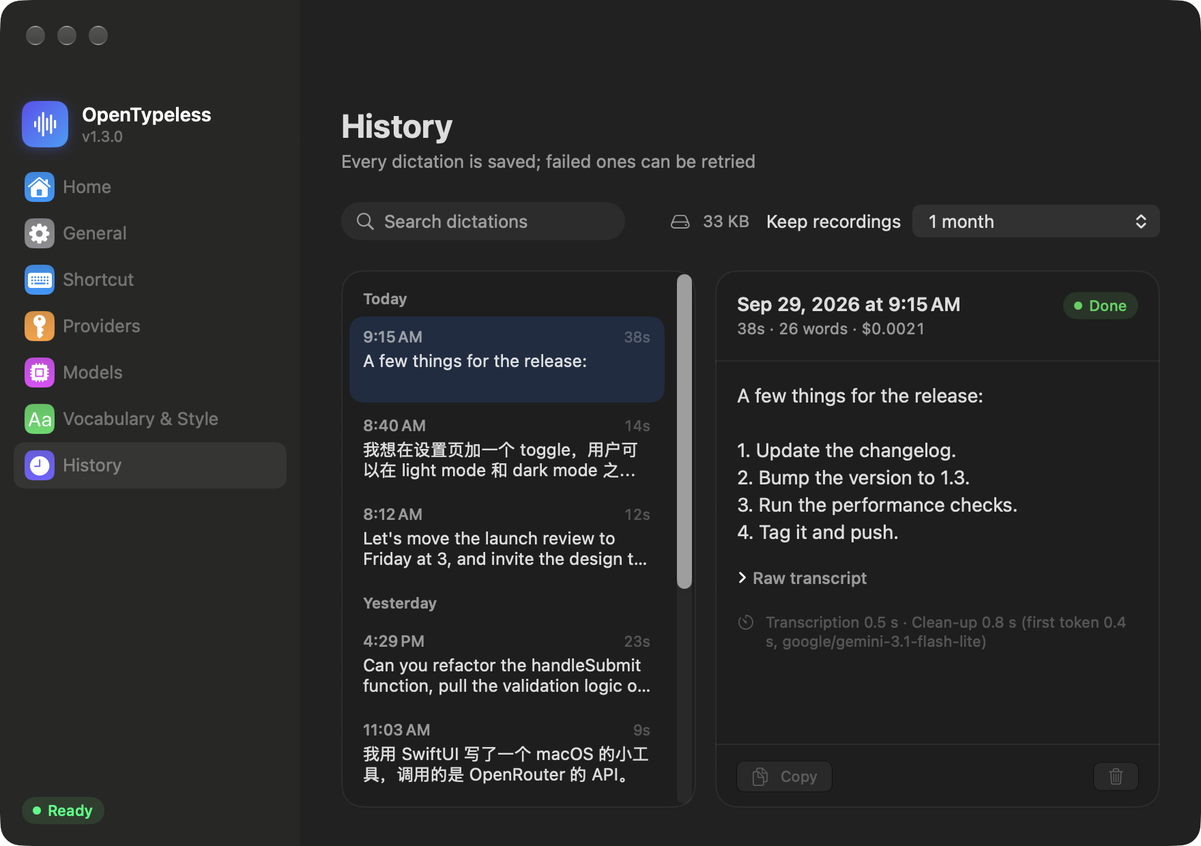
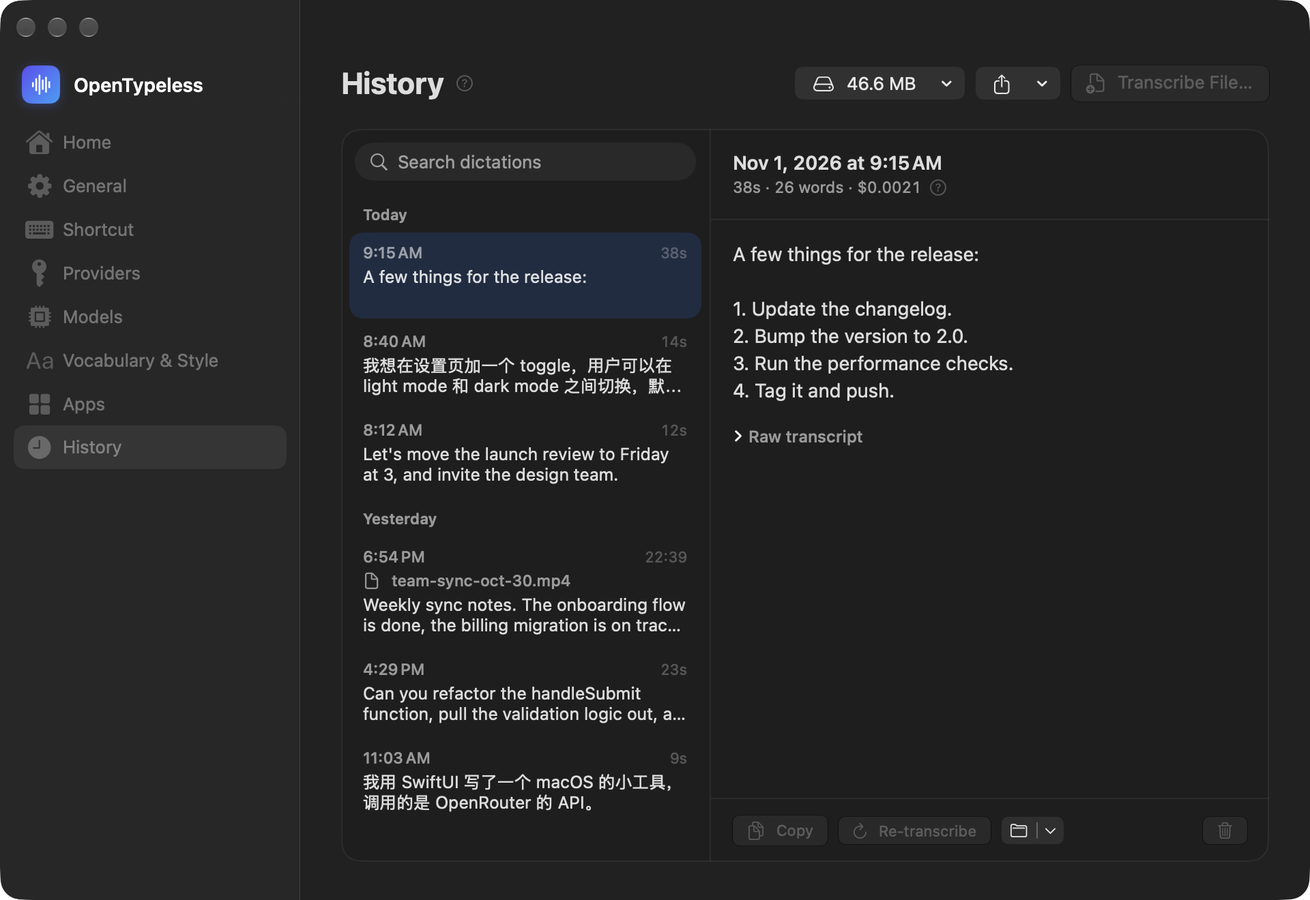
README: screenshots of the new UI
Home, History, Models, Vocabulary and the menu-bar panel, rendered from
sample data with --live --demo --dark --lang en. The recording capsule hasn't
changed. Alt text follows what the pictures show, in all nine READMEs, and
Native design mentions the "?".

diff --git a/README.ru.md b/README.ru.md
@@ -18,7 +18,7 @@
 </p>
 
 <p align="center">
-  <img src="docs/images/menu-bar.png" width="330" alt="Панель в строке меню: подсказка по сочетанию клавиш и недавние диктовки">
+  <img src="docs/images/menu-bar.png" width="330" alt="Панель в строке меню: недавние диктовки, копирование в один клик">
 </p>
 
 <p align="center">
@@ -65,7 +65,7 @@ OpenTypeless построен вокруг этой проблемы.
 - **Ваши слова, ваши языки.** Правки минимальны: формулировки, порядок и тон остаются вашими. Если вы смешиваете китайский и английский, каждое слово остаётся на том языке, на котором вы его произнесли, даже бытовые («shortcut», «dark mode»), а между текстом CJK и латиницей ставится пробел.
 
 <p align="center">
-  <img src="docs/images/history.png" width="720" alt="История: диктовки сгруппированы по дням и доступны для поиска, с очищенным текстом, временем и стоимостью">
+  <img src="docs/images/history.png" width="720" alt="История: диктовки сгруппированы по дням и доступны для поиска, с очищенным текстом и стоимостью">
 </p>
 
 Промпт настроен на обучающем и отложенном тестовом наборах (см. [eval/](eval/)), включая реальные диктовки.
@@ -96,7 +96,7 @@ OpenTypeless построен вокруг этой проблемы.
 - **История** всех диктовок, сгруппированная по дням и с поиском, с исходным и очищенным текстом, временем, стоимостью, копированием и повторным распознаванием. Выберите, сколько хранить записи: не хранить, день, неделю, месяц, год или всегда. То, что показывает список, можно экспортировать в CSV (открывается в Excel, в том числе с китайским текстом), JSON или Markdown, а любую запись — сохранить в WAV-файл.
 - **Распознавание аудио- и видеофайлов.** Кнопка **Распознать файл…** в истории или перетаскивание файлов туда превращает голосовую заметку, запись встречи или видео в текст с помощью вашего провайдера распознавания речи: запись делится по паузам, как длинная диктовка, и при желании очищается. Перед началом видна длительность каждого файла и, если у модели есть поминутная цена, ожидаемая стоимость. Текст сохраняется в истории (никуда не вставляется), файлы не входят в статистику диктовок и никогда не мешают диктовке: файл отправляет меньше запросов одновременно и ждёт, пока вы диктуете.
 - **Девять языков интерфейса**: English, 简体中文, 日本語, 한국어, Español, Português, Français, Deutsch и Русский. Приложение следует языку системы, либо выберите язык в **Настройки → Общие → Язык**.
-- **Нативный дизайн.** Liquid Glass в macOS 26+ с панелью в строке меню; Mica и Acrylic в Windows 11 с панелью в трее. Обе версии показывают маленькую капсулу записи, пока вы говорите.
+- **Нативный дизайн.** Liquid Glass в macOS 26+ с панелью в строке меню; Mica и Acrylic в Windows 11 с панелью в трее. Обе версии показывают маленькую капсулу записи, пока вы говорите. Настройки остаются краткими, а подробности скрыты за **?**: наведите на него или нажмите.
 - **Запуск при входе в систему.**
 - **Обновляется сам.** Раз в день проверяет GitHub Releases, скачивает новую версию в фоне и устанавливает её, когда вы нажмёте **Перезапустить и обновить**, — никогда посреди диктовки. Перед заменой файлов загрузка сверяется с SHA-256 от GitHub. Отключить или проверить вручную можно в **Настройки → Общие → Обновления**.
 - **Компактный и нативный.** Приложение на Swift/SwiftUI размером около 3 МБ на macOS и автономное приложение на WinUI 3 в Windows. Без Electron, без учётной записи и без собственного сервера.
@@ -280,7 +280,7 @@ scripts/perf.sh                  # бюджеты производительно
 
 # Отрисовать страницы настроек, панель строки меню и HUD в PNG (--live показывает их на экране с настоящим Liquid Glass).
 # Скриншоты README сделаны на примере истории и с --demo, который считает разрешения выданными.
-OPENTYPELESS_SUPPORT_DIR=/path/to/sample-data .build/debug/OpenTypeless --snapshot-ui /tmp/shots --live --demo --lang en
+OPENTYPELESS_SUPPORT_DIR=/path/to/sample-data .build/debug/OpenTypeless --snapshot-ui /tmp/shots --live --demo --dark --lang en
 ```
 
 ### Windows

diff --git a/README.ja.md b/README.ja.md
@@ -18,7 +18,7 @@
 </p>
 
 <p align="center">
-  <img src="docs/images/menu-bar.png" width="330" alt="メニューバーのパネル：ショートカットのヒントと最近の音声入力">
+  <img src="docs/images/menu-bar.png" width="330" alt="メニューバーのパネル：最近の音声入力、クリックでコピー">
 </p>
 
 <p align="center">
@@ -65,7 +65,7 @@ OpenTypeless はこの問題を中心に作られています。
 - **あなたの言葉、あなたの言語。** 編集は最小限で、言い回し、順序、口調はそのまま残ります。中国語と英語を混ぜて話した場合、日常語も含めて（「shortcut」「dark mode」）すべての単語が話したときの言語のまま残り、CJK と欧文の間にはスペースが入ります。
 
 <p align="center">
-  <img src="docs/images/history.png" width="720" alt="履歴：日ごとにまとめられ検索でき、整形後のテキスト、所要時間、費用を表示">
+  <img src="docs/images/history.png" width="720" alt="履歴：日ごとにまとめられ検索でき、整形後のテキストと費用を表示">
 </p>
 
 プロンプトは開発用とホールドアウトのテストセット（[eval/](eval/) を参照）で調整されており、実際の口述も含まれています。
@@ -96,7 +96,7 @@ OpenTypeless はこの問題を中心に作られています。
 - **履歴**にはすべての音声入力が日ごとにまとめて残り、検索でき、元のテキストと整形後のテキスト、所要時間、費用とともに、コピーや再度の文字起こしができます。録音の保存期間は、保存しない、1 日、1 週間、1 か月、1 年、無期限から選べます。一覧に表示中の記録は CSV（Excel でそのまま開け、日本語も文字化けしません）、JSON、Markdown に書き出せ、録音は WAV ファイルとして保存できます。
 - **音声・動画ファイルの文字起こし。** 履歴の **ファイルを文字起こし…** を押すか、ファイルをドロップすると、ボイスメモや会議の録音、動画を、選んだ音声認識プロバイダでテキストにします。長い音声入力と同じく間で区切り、整形もできます。開始前に各ファイルの長さと、モデルに分単位の料金があれば費用の見込みを表示します。テキストは履歴に残り（ペーストはされません）、音声入力の集計には含まれません。音声入力の邪魔もしません。ファイルは同時に送るリクエストを減らし、音声入力中は待機します。
 - **9 つの UI 言語**：English、简体中文、日本語、한국어、Español、Português、Français、Deutsch、Русский。システムの言語に従うほか、**設定 → 一般 → 言語** で選べます。
-- **ネイティブなデザイン。** macOS 26 以降では Liquid Glass とメニューバーのパネル、Windows 11 では Mica と Acrylic とトレイのパネル。どちらも話している間は小さな録音カプセルを表示します。
+- **ネイティブなデザイン。** macOS 26 以降では Liquid Glass とメニューバーのパネル、Windows 11 では Mica と Acrylic とトレイのパネル。どちらも話している間は小さな録音カプセルを表示します。設定の説明は短く、詳しい内容は **?** にポインタを合わせるかクリックすると読めます。
 - **ログイン時に起動。**
 - **自動アップデート。** 1 日 1 回 GitHub Releases を確認し、新しいバージョンをバックグラウンドでダウンロードして、**再起動して更新** をクリックしたときにインストールします。音声入力の途中で行うことはありません。ファイルを置き換える前に、ダウンロードを GitHub の SHA-256 と照合します。**設定 → 一般 → アップデート** でオフにしたり、手動で確認したりできます。
 - **小さくてネイティブ。** macOS では約 3 MB の Swift/SwiftUI アプリ、Windows では自己完結型の WinUI 3 アプリ。Electron もアカウントも独自サーバーもありません。
@@ -280,7 +280,7 @@ scripts/perf.sh                  # リリースビルドでのパフォーマン
 
 # 設定ページ、メニューバーのパネル、HUD を PNG に書き出す（--live は画面に表示して本物の Liquid Glass で撮影）。
 # README のスクリーンショットはサンプルの履歴と、許可済みとして扱う --demo を使っています。
-OPENTYPELESS_SUPPORT_DIR=/path/to/sample-data .build/debug/OpenTypeless --snapshot-ui /tmp/shots --live --demo --lang en
+OPENTYPELESS_SUPPORT_DIR=/path/to/sample-data .build/debug/OpenTypeless --snapshot-ui /tmp/shots --live --demo --dark --lang en
 ```
 
 ### Windows

diff --git a/README.fr.md b/README.fr.md
@@ -18,7 +18,7 @@
 </p>
 
 <p align="center">
-  <img src="docs/images/menu-bar.png" width="330" alt="Le panneau de la barre des menus : rappel du raccourci et dictées récentes">
+  <img src="docs/images/menu-bar.png" width="330" alt="Le panneau de la barre des menus : dictées récentes, à un clic de la copie">
 </p>
 
 <p align="center">
@@ -65,7 +65,7 @@ La transcription brute est brouillonne : tics de langage, reprises, « non atten
 - **Vos mots, vos langues.** Les modifications sont minimales : formulation, ordre et ton restent les vôtres. Quand vous mélangez chinois et anglais, chaque mot reste dans la langue où vous l’avez dit, y compris les mots courants (« shortcut », « dark mode »), avec une espace entre texte CJK et texte latin.
 
 <p align="center">
-  <img src="docs/images/history.png" width="720" alt="Historique : les dictées regroupées par jour et consultables par recherche, avec le texte nettoyé, les durées et le coût">
+  <img src="docs/images/history.png" width="720" alt="Historique : les dictées regroupées par jour et consultables par recherche, avec le texte nettoyé et son coût">
 </p>
 
 Le prompt est ajusté sur des jeux de développement et de test réservés (voir [eval/](eval/)), qui incluent de vraies dictées.
@@ -96,7 +96,7 @@ Le prompt est ajusté sur des jeux de développement et de test réservés (voir
 - **Historique** de chaque dictée, regroupé par jour et consultable par recherche, avec le texte brut et nettoyé, les durées, le coût, la copie et la retranscription. Choisissez combien de temps les enregistrements sont conservés : pas du tout, un jour, une semaine, un mois, un an ou pour toujours. Exportez ce qu’affiche la liste en CSV (s’ouvre dans Excel, caractères chinois compris), JSON ou Markdown, et sauvegardez l’audio de n’importe quelle dictée en fichier WAV.
 - **Transcription de fichiers audio et vidéo.** **Transcrire un fichier…** dans l’historique, ou y déposer des fichiers, transforme un mémo vocal, l’enregistrement d’une réunion ou une vidéo en texte avec votre fournisseur de transcription, découpé aux pauses comme une longue dictée et nettoyé si vous le souhaitez. Avant de commencer, vous voyez la durée de chaque fichier et, quand le modèle a un prix à la minute, ce que cela devrait coûter. Le texte est conservé dans l’historique (jamais collé), les fichiers ne comptent pas dans les statistiques de dictée et ne retardent jamais une dictée : un fichier envoie moins de requêtes à la fois et attend pendant que vous dictez.
 - **Neuf langues d’interface** : English, 简体中文, 日本語, 한국어, Español, Português, Français, Deutsch et Русский. L’app suit la langue du système, ou choisissez-en une dans **Réglages → Général → Langue**.
-- **Design natif.** Liquid Glass sur macOS 26+ avec un panneau dans la barre des menus ; Mica et Acrylic sur Windows 11 avec un panneau dans la zone de notification. Les deux affichent une petite capsule d’enregistrement pendant que vous parlez.
+- **Design natif.** Liquid Glass sur macOS 26+ avec un panneau dans la barre des menus ; Mica et Acrylic sur Windows 11 avec un panneau dans la zone de notification. Les deux affichent une petite capsule d’enregistrement pendant que vous parlez. Les réglages restent courts, avec les détails derrière un **?** à survoler ou à cliquer.
 - **Ouverture à la connexion.**
 - **Se met à jour toute seule.** Vérifie GitHub Releases une fois par jour, télécharge la nouvelle version en arrière-plan et l’installe quand vous cliquez sur **Redémarrer pour mettre à jour**, jamais au milieu d’une dictée. Les téléchargements sont vérifiés avec le SHA-256 de GitHub avant tout remplacement. Désactivez-la, ou vérifiez manuellement, dans **Réglages → Général → Mises à jour**.
 - **Légère et native.** Une app Swift/SwiftUI d’environ 3 Mo sur macOS et une app WinUI 3 autonome sur Windows. Pas d’Electron, pas de compte et pas de serveur à elle.
@@ -280,7 +280,7 @@ Modes en ligne de commande utiles du binaire compilé (depuis `macos/`) :
 
 # Rend les pages de réglages, le panneau de la barre des menus et le HUD en PNG (--live les affiche à l’écran, avec un vrai Liquid Glass).
 # Les captures du README utilisent un historique d’exemple et --demo, qui considère les autorisations comme accordées.
-OPENTYPELESS_SUPPORT_DIR=/path/to/sample-data .build/debug/OpenTypeless --snapshot-ui /tmp/shots --live --demo --lang en
+OPENTYPELESS_SUPPORT_DIR=/path/to/sample-data .build/debug/OpenTypeless --snapshot-ui /tmp/shots --live --demo --dark --lang en
 ```
 
 ### Windows

diff --git a/README.de.md b/README.de.md
@@ -18,7 +18,7 @@
 </p>
 
 <p align="center">
-  <img src="docs/images/menu-bar.png" width="330" alt="Das Menüleisten-Panel: Hinweis zum Tastenkürzel und letzte Diktate">
+  <img src="docs/images/menu-bar.png" width="330" alt="Das Menüleisten-Panel: letzte Diktate, per Klick kopiert">
 </p>
 
 <p align="center">
@@ -65,7 +65,7 @@ Rohe Spracherkennung ist unordentlich: Füllwörter, Neuanfänge, „nein, warte
 - **Deine Worte, deine Sprachen.** Änderungen bleiben minimal: Wortwahl, Reihenfolge und Ton bleiben deine. Wenn du Chinesisch und Englisch mischst, bleibt jedes Wort in der Sprache, in der du es gesagt hast, auch Alltagswörter („shortcut“, „dark mode“), mit Leerzeichen zwischen CJK- und lateinischem Text.
 
 <p align="center">
-  <img src="docs/images/history.png" width="720" alt="Verlauf: Diktate nach Tagen gruppiert und durchsuchbar, mit bereinigtem Text, Zeiten und Kosten">
+  <img src="docs/images/history.png" width="720" alt="Verlauf: Diktate nach Tagen gruppiert und durchsuchbar, mit bereinigtem Text und Kosten">
 </p>
 
 Der Prompt ist auf Entwicklungs- und zurückgehaltenen Testsets abgestimmt (siehe [eval/](eval/)), darunter echte Diktate.
@@ -96,7 +96,7 @@ Der Prompt ist auf Entwicklungs- und zurückgehaltenen Testsets abgestimmt (sieh
 - **Verlauf** jedes Diktats, nach Tagen gruppiert und durchsuchbar, mit Roh- und bereinigtem Text, Zeiten, Kosten, Kopieren und Neu-Transkribieren. Du bestimmst, wie lange Aufnahmen behalten werden: gar nicht, einen Tag, eine Woche, einen Monat, ein Jahr oder für immer. Exportiere, was die Liste zeigt, als CSV (öffnet sich in Excel, auch mit chinesischen Zeichen), JSON oder Markdown, und sichere jede Aufnahme als WAV-Datei.
 - **Audio- und Videodateien transkribieren.** **Datei transkribieren…** im Verlauf, oder Dateien dort ablegen, macht aus einem Sprachmemo, einer Besprechungsaufnahme oder einem Video Text, mit deinem Spracherkennungsanbieter, an Pausen geteilt wie ein langes Diktat und auf Wunsch bereinigt. Vor dem Start siehst du die Länge jeder Datei und, wenn das Modell einen Minutenpreis hat, was es kosten sollte. Der Text bleibt im Verlauf (er wird nie eingefügt), Dateien zählen nicht zur Diktat-Statistik und halten nie ein Diktat auf: Eine Datei schickt weniger Anfragen gleichzeitig und wartet, während du diktierst.
 - **Neun UI-Sprachen**: English, 简体中文, 日本語, 한국어, Español, Português, Français, Deutsch und Русский. Die App folgt der Systemsprache, oder du wählst eine unter **Einstellungen → Allgemein → Sprache**.
-- **Natives Design.** Liquid Glass ab macOS 26 mit einem Menüleisten-Panel; Mica und Acrylic unter Windows 11 mit einem Panel im Infobereich. Beide zeigen beim Sprechen eine kleine Aufnahme-Kapsel.
+- **Natives Design.** Liquid Glass ab macOS 26 mit einem Menüleisten-Panel; Mica und Acrylic unter Windows 11 mit einem Panel im Infobereich. Beide zeigen beim Sprechen eine kleine Aufnahme-Kapsel. Die Einstellungen bleiben kurz, Details stehen hinter einem **?**, auf das du zeigen oder klicken kannst.
 - **Start bei der Anmeldung.**
 - **Aktualisiert sich selbst.** Prüft einmal täglich GitHub Releases, lädt eine neue Version im Hintergrund und installiert sie, wenn du auf **Neu starten und aktualisieren** klickst, nie mitten in einem Diktat. Downloads werden vor jedem Austausch gegen GitHubs SHA-256 geprüft. Abschalten oder manuell prüfen kannst du unter **Einstellungen → Allgemein → Updates**.
 - **Klein und nativ.** Eine ca. 3 MB große Swift/SwiftUI-App auf macOS und eine eigenständige WinUI-3-App auf Windows. Kein Electron, kein Konto und kein eigener Server.
@@ -280,7 +280,7 @@ Nützliche Kommandozeilenmodi des gebauten Programms (aus `macos/`):
 
 # Einstellungsseiten, Menüleisten-Panel und HUD als PNG rendern (--live zeigt sie auf dem Bildschirm, mit echtem Liquid Glass).
 # Die README-Screenshots nutzen einen Beispielverlauf und --demo, das Berechtigungen als erteilt behandelt.
-OPENTYPELESS_SUPPORT_DIR=/path/to/sample-data .build/debug/OpenTypeless --snapshot-ui /tmp/shots --live --demo --lang en
+OPENTYPELESS_SUPPORT_DIR=/path/to/sample-data .build/debug/OpenTypeless --snapshot-ui /tmp/shots --live --demo --dark --lang en
 ```
 
 ### Windows

diff --git a/README.es.md b/README.es.md
@@ -18,7 +18,7 @@
 </p>
 
 <p align="center">
-  <img src="docs/images/menu-bar.png" width="330" alt="El panel de la barra de menús: aviso del atajo y dictados recientes">
+  <img src="docs/images/menu-bar.png" width="330" alt="El panel de la barra de menús: dictados recientes, a un clic de copiar">
 </p>
 
 <p align="center">
@@ -65,7 +65,7 @@ La transcripción en bruto es desordenada: muletillas, frases que se reinician, 
 - **Tus palabras, tus idiomas.** Los cambios son mínimos: la redacción, el orden y el tono siguen siendo tuyos. Si mezclas chino e inglés, cada palabra se queda en el idioma en que la dijiste, también las cotidianas («shortcut», «dark mode»), con espacio entre el texto CJK y el latino.
 
 <p align="center">
-  <img src="docs/images/history.png" width="720" alt="Historial: dictados agrupados por día y con búsqueda, con el texto limpio, los tiempos y el coste">
+  <img src="docs/images/history.png" width="720" alt="Historial: dictados agrupados por día y con búsqueda, con el texto limpio y su coste">
 </p>
 
 El prompt está ajustado con conjuntos de desarrollo y de prueba reservados (ver [eval/](eval/)), que incluyen dictados reales.
@@ -96,7 +96,7 @@ El prompt está ajustado con conjuntos de desarrollo y de prueba reservados (ver
 - **Historial** de cada dictado, agrupado por día y con búsqueda, con el texto original y el limpio, tiempos, coste, copiar y volver a transcribir. Elige cuánto tiempo se guardan las grabaciones: nada, un día, una semana, un mes, un año o para siempre. Exporta lo que muestra la lista a CSV (se abre en Excel, también con caracteres chinos), JSON o Markdown, y guarda cualquier grabación como archivo WAV.
 - **Transcribe archivos de audio y vídeo.** **Transcribir archivo…** en el historial, o soltar archivos en él, convierte una nota de voz, la grabación de una reunión o un vídeo en texto con tu proveedor de voz a texto, cortado en las pausas como un dictado largo y, si quieres, limpio. Antes de empezar ves la duración de cada archivo y, si el modelo tiene precio por minuto, lo que debería costar. El texto se guarda en el historial (nunca se pega), los archivos no cuentan en las estadísticas de dictado y nunca retrasan un dictado: un archivo envía menos solicitudes a la vez y espera mientras dictas.
 - **Nueve idiomas de interfaz**: English, 简体中文, 日本語, 한국어, Español, Português, Français, Deutsch y Русский. La app sigue el idioma del sistema, o elige uno en **Ajustes → General → Idioma**.
-- **Diseño nativo.** Liquid Glass en macOS 26+ con un panel en la barra de menús; Mica y Acrylic en Windows 11 con un panel en la bandeja. Ambas muestran una pequeña cápsula de grabación mientras hablas.
+- **Diseño nativo.** Liquid Glass en macOS 26+ con un panel en la barra de menús; Mica y Acrylic en Windows 11 con un panel en la bandeja. Ambas muestran una pequeña cápsula de grabación mientras hablas. Los ajustes son breves y los detalles están tras un **?** que puedes señalar o pulsar.
 - **Se abre al iniciar sesión.**
 - **Se actualiza sola.** Busca en GitHub Releases una vez al día, descarga la nueva versión en segundo plano y la instala cuando pulsas **Reiniciar para actualizar**, nunca en mitad de un dictado. Las descargas se comprueban con el SHA-256 de GitHub antes de reemplazar nada. Desactívalo, o búscalas a mano, en **Ajustes → General → Actualizaciones**.
 - **Pequeña y nativa.** Una app Swift/SwiftUI de ~3 MB en macOS y una app WinUI 3 autónoma en Windows. Sin Electron, sin cuenta y sin servidor propio.
@@ -280,7 +280,7 @@ Modos de línea de comandos útiles del binario compilado (desde `macos/`):
 
 # Renderiza las páginas de ajustes, el panel de la barra de menús y el HUD a PNG (--live los muestra en pantalla con Liquid Glass real).
 # Las capturas del README usan un historial de ejemplo y --demo, que da los permisos por concedidos.
-OPENTYPELESS_SUPPORT_DIR=/path/to/sample-data .build/debug/OpenTypeless --snapshot-ui /tmp/shots --live --demo --lang en
+OPENTYPELESS_SUPPORT_DIR=/path/to/sample-data .build/debug/OpenTypeless --snapshot-ui /tmp/shots --live --demo --dark --lang en
 ```
 
 ### Windows

diff --git a/README.pt-BR.md b/README.pt-BR.md
@@ -18,7 +18,7 @@
 </p>
 
 <p align="center">
-  <img src="docs/images/menu-bar.png" width="330" alt="O painel da barra de menus: dica do atalho e ditados recentes">
+  <img src="docs/images/menu-bar.png" width="330" alt="O painel da barra de menus: ditados recentes, a um clique de copiar">
 </p>
 
 <p align="center">
@@ -65,7 +65,7 @@ A transcrição bruta é bagunçada: vícios de linguagem, recomeços, "não, es
 - **Suas palavras, seus idiomas.** As edições são mínimas: palavras, ordem e tom continuam seus. Quando você mistura chinês e inglês, cada palavra fica no idioma em que foi dita, inclusive as do dia a dia ("shortcut", "dark mode"), com espaço entre o texto CJK e o latino.
 
 <p align="center">
-  <img src="docs/images/history.png" width="720" alt="Histórico: ditados agrupados por dia e pesquisáveis, com o texto limpo, os tempos e o custo">
+  <img src="docs/images/history.png" width="720" alt="Histórico: ditados agrupados por dia e pesquisáveis, com o texto limpo e o custo">
 </p>
 
 O prompt é ajustado com conjuntos de desenvolvimento e de teste reservados (veja [eval/](eval/)), incluindo ditados reais.
@@ -96,7 +96,7 @@ O prompt é ajustado com conjuntos de desenvolvimento e de teste reservados (vej
 - **Histórico** de todos os ditados, agrupado por dia e pesquisável, com texto bruto e limpo, tempos, custo, copiar e transcrever de novo. Escolha por quanto tempo as gravações ficam guardadas: nada, um dia, uma semana, um mês, um ano ou para sempre. Exporte o que a lista mostra para CSV (abre no Excel, inclusive com caracteres chineses), JSON ou Markdown, e salve qualquer gravação como arquivo WAV.
 - **Transcreva arquivos de áudio e vídeo.** **Transcrever arquivo…** no histórico, ou soltar arquivos nele, transforma uma nota de voz, a gravação de uma reunião ou um vídeo em texto com seu provedor de voz para texto, cortado nas pausas como um ditado longo e, se quiser, limpo. Antes de começar você vê a duração de cada arquivo e, quando o modelo tem preço por minuto, quanto deve custar. O texto fica no histórico (nunca é colado), os arquivos ficam fora das estatísticas de ditado e nunca atrasam um ditado: um arquivo envia menos requisições ao mesmo tempo e espera enquanto você dita.
 - **Nove idiomas de interface**: English, 简体中文, 日本語, 한국어, Español, Português, Français, Deutsch e Русский. O app segue o idioma do sistema, ou escolha um em **Configurações → Geral → Idioma**.
-- **Design nativo.** Liquid Glass no macOS 26+ com um painel na barra de menus; Mica e Acrylic no Windows 11 com um painel na bandeja. Ambos mostram uma pequena cápsula de gravação enquanto você fala.
+- **Design nativo.** Liquid Glass no macOS 26+ com um painel na barra de menus; Mica e Acrylic no Windows 11 com um painel na bandeja. Ambos mostram uma pequena cápsula de gravação enquanto você fala. As configurações são curtas, com os detalhes em um **?** que você pode apontar ou clicar.
 - **Abre ao iniciar sessão.**
 - **Atualiza sozinho.** Verifica o GitHub Releases uma vez por dia, baixa a nova versão em segundo plano e instala quando você clica em **Reiniciar para atualizar**, nunca no meio de um ditado. Os downloads são conferidos com o SHA-256 do GitHub antes de qualquer substituição. Desative, ou verifique manualmente, em **Configurações → Geral → Atualizações**.
 - **Pequeno e nativo.** Um app Swift/SwiftUI de ~3 MB no macOS e um app WinUI 3 independente no Windows. Sem Electron, sem conta e sem servidor próprio.
@@ -280,7 +280,7 @@ Modos úteis de linha de comando do binário compilado (a partir de `macos/`):
 
 # Renderiza as páginas de configurações, o painel da barra de menus e o HUD em PNG (--live mostra na tela, com Liquid Glass de verdade).
 # As capturas do README usam um histórico de exemplo e --demo, que trata as permissões como concedidas.
-OPENTYPELESS_SUPPORT_DIR=/path/to/sample-data .build/debug/OpenTypeless --snapshot-ui /tmp/shots --live --demo --lang en
+OPENTYPELESS_SUPPORT_DIR=/path/to/sample-data .build/debug/OpenTypeless --snapshot-ui /tmp/shots --live --demo --dark --lang en
 ```
 
 ### Windows

diff --git a/README.md b/README.md
@@ -18,7 +18,7 @@
 </p>
 
 <p align="center">
-  <img src="docs/images/menu-bar.png" width="330" alt="The menu-bar panel: shortcut hint and recent dictations">
+  <img src="docs/images/menu-bar.png" width="330" alt="The menu-bar panel: recent dictations, one click to copy">
 </p>
 
 <p align="center">
@@ -65,7 +65,7 @@ Raw speech-to-text is messy: fillers, restarts, "no wait, I mean…", thinking o
 - **Your words, your languages.** Edits are kept to a minimum: wording, order and tone stay yours. When you mix Chinese and English, every word stays in the language you said it in, everyday words too ("shortcut", "dark mode"), with spacing between CJK and Latin text.
 
 <p align="center">
-  <img src="docs/images/history.png" width="720" alt="History: dictations grouped by day and searchable, with the cleaned-up text, timing and cost">
+  <img src="docs/images/history.png" width="720" alt="History: dictations grouped by day and searchable, with the cleaned-up text and its cost">
 </p>
 
 The prompt is tuned against development and held-out test sets (see [eval/](eval/)), including real dictations.
@@ -98,7 +98,7 @@ The prompt is tuned against development and held-out test sets (see [eval/](eval
 - **History** of every dictation, grouped by day and searchable, with raw and cleaned text, timing, cost, copy and re-transcribe. Choose how long recordings are kept: not at all, a day, a week, a month, a year, or forever. Export what the list shows as CSV (opens in Excel, Chinese included), JSON or Markdown, and save any recording as a WAV file.
 - **Transcribe audio and video files.** **Transcribe File…** in History, or drop files on it, turns a voice memo, a meeting recording or a video into text with your speech-to-text provider, cut at pauses like a long dictation and optionally cleaned up. Before it starts you see each file's length and, when the model has a per-minute price, what it should cost. The text is kept in History (never pasted), files are left out of the dictation totals, and they never hold up dictating: a file sends fewer requests at once and waits while you dictate.
 - **Nine UI languages**: English, 简体中文, 日本語, 한국어, Español, Português, Français, Deutsch and Русский. The app follows the system language, or pick one under **Settings → General → Language**.
-- **Native design.** Liquid Glass on macOS 26+ with a menu-bar panel; Mica and Acrylic on Windows 11 with a tray panel. Both show a small recording capsule while you talk.
+- **Native design.** Liquid Glass on macOS 26+ with a menu-bar panel; Mica and Acrylic on Windows 11 with a tray panel. Both show a small recording capsule while you talk. Settings stay short, with the details behind a **?** you can point at or click.
 - **Launch at login.**
 - **Updates itself.** Checks GitHub Releases once a day, downloads a new version in the background and installs it when you click **Restart to update**, never in the middle of a dictation. Downloads are checked against GitHub's SHA-256 before anything is replaced. Turn it off, or check by hand, under **Settings → General → Updates**.
 - **Small and native.** A ~3 MB Swift/SwiftUI app on macOS and a self-contained WinUI 3 app on Windows. No Electron, no account and no server of its own.
@@ -303,7 +303,7 @@ Useful command-line modes of the built binary (from `macos/`):
 
 # Render the settings pages, menu-bar panel and HUD to PNGs (--live shows them on screen for real Liquid Glass).
 # The README screenshots use sample history and --demo, which treats permissions as granted.
-OPENTYPELESS_SUPPORT_DIR=/path/to/sample-data .build/debug/OpenTypeless --snapshot-ui /tmp/shots --live --demo --lang en
+OPENTYPELESS_SUPPORT_DIR=/path/to/sample-data .build/debug/OpenTypeless --snapshot-ui /tmp/shots --live --demo --dark --lang en
 ```
 
 ### Windows

diff --git a/README.zh-CN.md b/README.zh-CN.md
@@ -18,7 +18,7 @@
 </p>
 
 <p align="center">
-  <img src="docs/images/menu-bar.png" width="330" alt="菜单栏面板：快捷键提示和最近的听写">
+  <img src="docs/images/menu-bar.png" width="330" alt="菜单栏面板：最近的听写，点一下就能复制">
 </p>
 
 <p align="center">
@@ -65,7 +65,7 @@ OpenTypeless 就是围绕这个问题做的。
 - **你的用词、你的语言。** 改动尽量少：措辞、顺序和语气都保持原样。中英混说时，每个词都保留你说出它时的语言，日常词也一样（“shortcut”、“dark mode”），中文和英文之间加空格。
 
 <p align="center">
-  <img src="docs/images/history.png" width="720" alt="历史：按天分组、可以搜索，显示整理后的文字、耗时和花费">
+  <img src="docs/images/history.png" width="720" alt="历史：按天分组、可以搜索，显示整理后的文字和花费">
 </p>
 
 提示词在开发集和留出测试集上调优（见 [eval/](eval/)），其中包括真实的口述。
@@ -98,7 +98,7 @@ OpenTypeless 就是围绕这个问题做的。
 - **历史**记录每一次听写，按天分组、可以搜索，包括原始文字和整理后的文字、耗时、花费、复制和重新转写。录音保存多久由你决定：不保存、一天、一周、一个月、一年或永久。列表里显示的记录可以导出为 CSV（Excel 直接打开，中文不乱码）、JSON 或 Markdown，录音也可以另存为 WAV 文件。
 - **转写音频和视频文件。** 在历史页点 **转写文件…** 或把文件拖进去，就能用你的语音转文字服务商把语音备忘录、会议录音或视频转成文字，像长听写一样在停顿处切段，还可以顺便整理。开始前会显示每个文件的长度，模型有按分钟的价格时还会显示预计花费。文字保存在历史里（不会粘贴），不计入听写统计，也不会耽误听写：转写文件时同时发出的请求更少，你听写时它会先等着。
 - **九种界面语言**：English、简体中文、日本語、한국어、Español、Português、Français、Deutsch 和 Русский。默认跟随系统语言，也可以在 **设置 → 通用 → 界面语言** 里选择。
-- **原生设计。** macOS 26+ 上是 Liquid Glass 和菜单栏面板；Windows 11 上是 Mica 和 Acrylic，以及托盘面板。说话时两边都会显示一个小小的录音胶囊。
+- **原生设计。** macOS 26+ 上是 Liquid Glass 和菜单栏面板；Windows 11 上是 Mica 和 Acrylic，以及托盘面板。说话时两边都会显示一个小小的录音胶囊。设置页只留简短说明，详细内容放在 **?** 里，鼠标移上去或点一下就能看。
 - **登录时自动启动。**
 - **自动更新。** 每天检查一次 GitHub Releases，在后台下载新版本，你点 **重启更新** 时才安装，绝不会在听写中途进行。替换任何文件之前都会用 GitHub 的 SHA-256 校验下载内容。可以在 **设置 → 通用 → 更新** 里关闭或手动检查。
 - **小巧、原生。** macOS 上是约 3 MB 的 Swift/SwiftUI 应用，Windows 上是自包含的 WinUI 3 应用。没有 Electron，不需要账号，也没有自己的服务器。
@@ -299,7 +299,7 @@ scripts/perf.sh                  # 发布版构建下的性能预算（音频处
 
 # 把设置页面、菜单栏面板和 HUD 渲染成 PNG（--live 在屏幕上显示，得到真正的 Liquid Glass）。
 # README 截图使用示例历史和 --demo（把权限视为已授予）。
-OPENTYPELESS_SUPPORT_DIR=/path/to/sample-data .build/debug/OpenTypeless --snapshot-ui /tmp/shots --live --demo --lang en
+OPENTYPELESS_SUPPORT_DIR=/path/to/sample-data .build/debug/OpenTypeless --snapshot-ui /tmp/shots --live --demo --dark --lang en
 ```
 
 ### Windows
